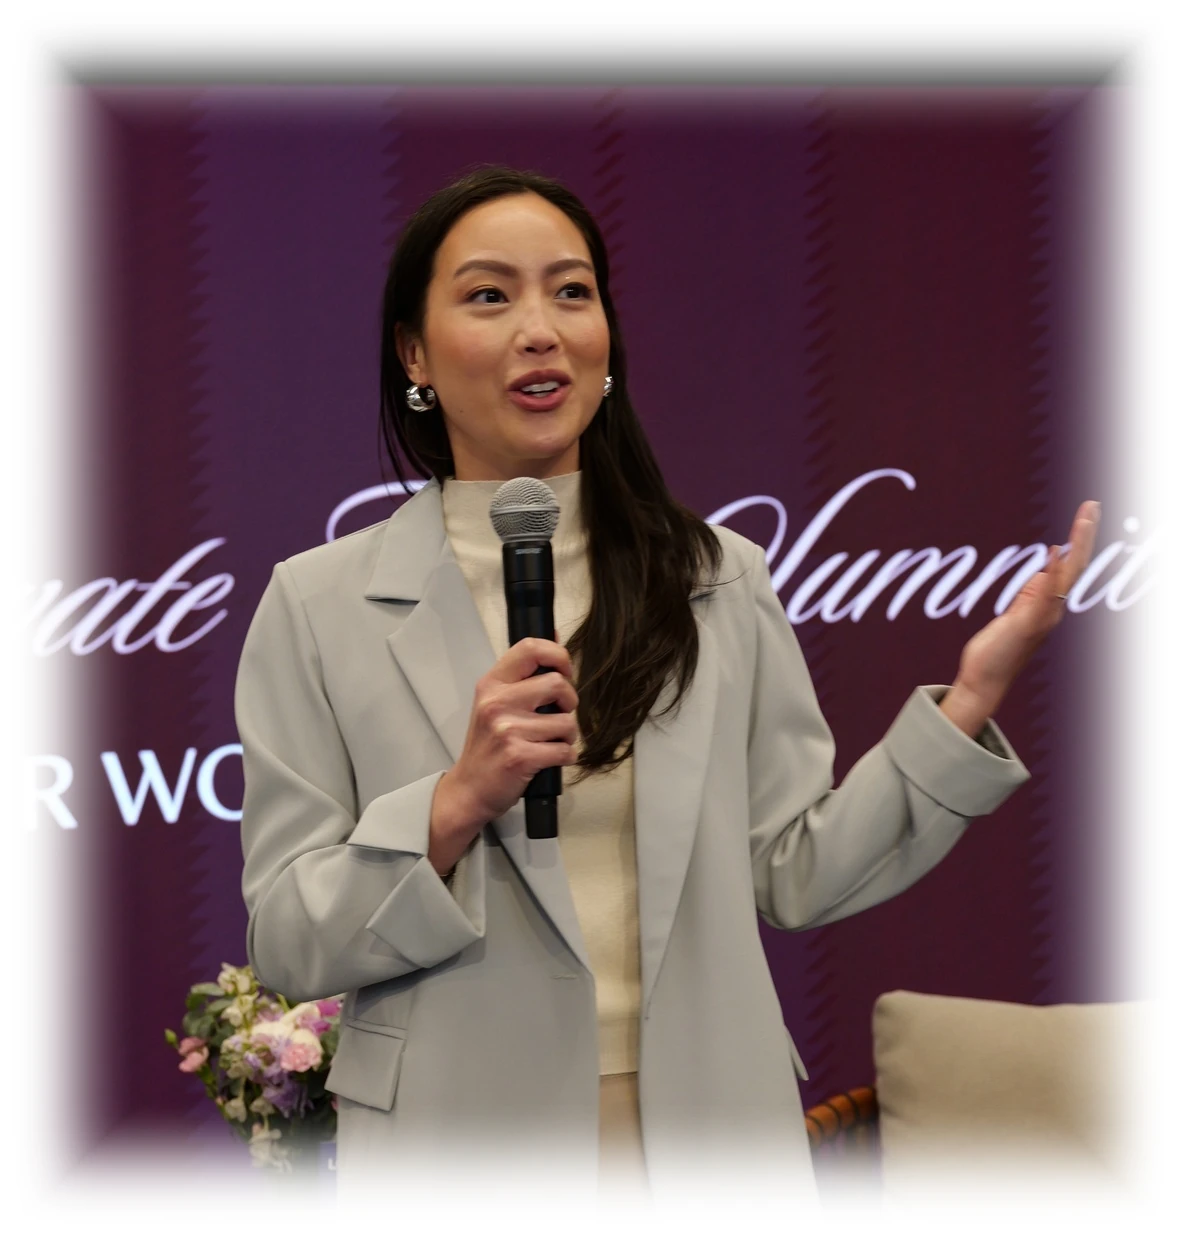
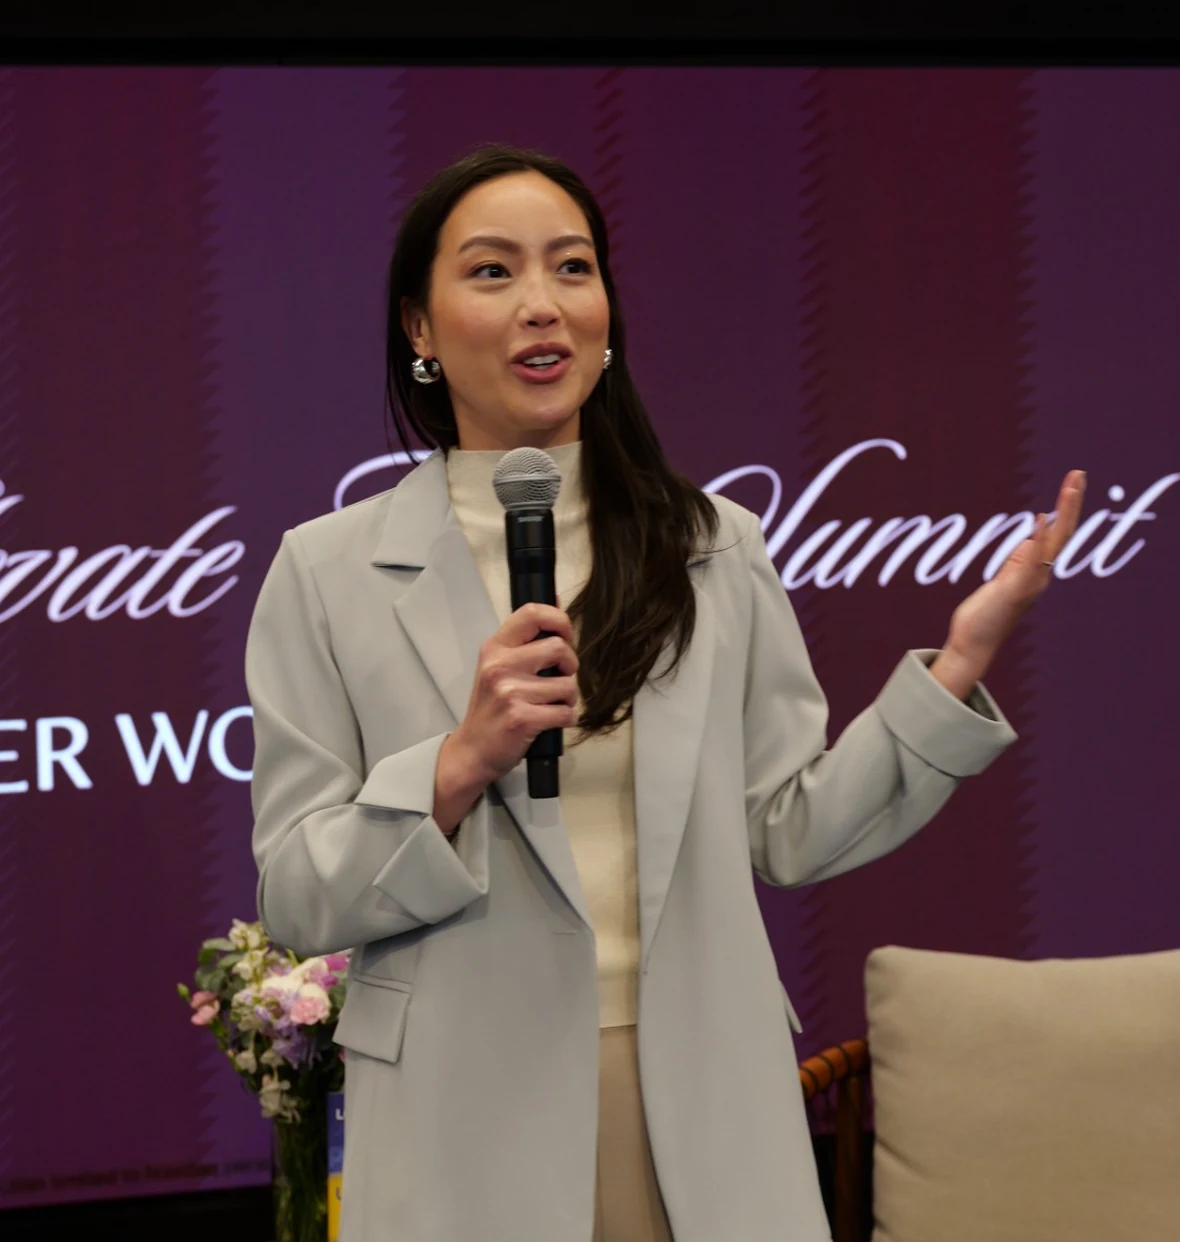
Give the speaking hero the same directional fade as the homepage
New stage photo, cut from the clean original with no fade of its own, so the
soft edge is a mask rather than something painted into the file. Only the edge
facing the copy dissolves, and it moves to the bottom edge below 900px where
the hero stacks.

The crop is positioned by hand rather than by the head-finding routine: the
warm ceiling spotlights in this shot read as skin tone, which put the detector
at the top of the frame instead of her hair.

diff --git a/src/styles/editorial/base.css b/src/styles/editorial/base.css
@@ -456,20 +456,23 @@ body {
 /* The speaking hero's soft white rim is baked into the image file, so the
    mask above would fade it a second time and wash out her face. The Articles
    hero still uses a plain photo and keeps the mask. */
+/* Directional fade, matching the homepage: only the edge facing the copy
+   dissolves and the photo runs hard off the other three. It is a mask, so the
+   soft edge is transparency rather than a fade baked to white, and there is
+   no background colour for it to mismatch. The photo file is a plain photo
+   cut to the card's ratio. */
 .photo-card--prefaded img {
-  -webkit-mask-image: none;
-  mask-image: none;
-  /* The photo is exported at the card's own ratio (1180x1240 against a
-     589x620 box), so cover fills it edge to edge without cropping the baked
-     fade away. Replacing it with a differently shaped photo would start
-     cropping that fade again. */
   object-fit: cover;
   object-position: center top;
-  /* The photo's rim fades to pure white, but the page sits on #f9f9f9, so the
-     faded area read as a brighter rectangle with visible straight edges.
-     Multiply blends white into whatever is behind it exactly, so the rim
-     disappears into the page at any background colour. */
-  mix-blend-mode: multiply;
+  -webkit-mask-image: linear-gradient(to right, transparent 0%, #000 26%);
+  mask-image: linear-gradient(to right, transparent 0%, #000 26%);
+}
+/* Stacked below 900px, so the fade moves to the edge that now meets the copy. */
+@media (max-width: 900px) {
+  .photo-card--prefaded img {
+    -webkit-mask-image: linear-gradient(to bottom, #000 74%, transparent 100%);
+    mask-image: linear-gradient(to bottom, #000 74%, transparent 100%);
+  }
 }
 .photo-stat {
   position: absolute;
